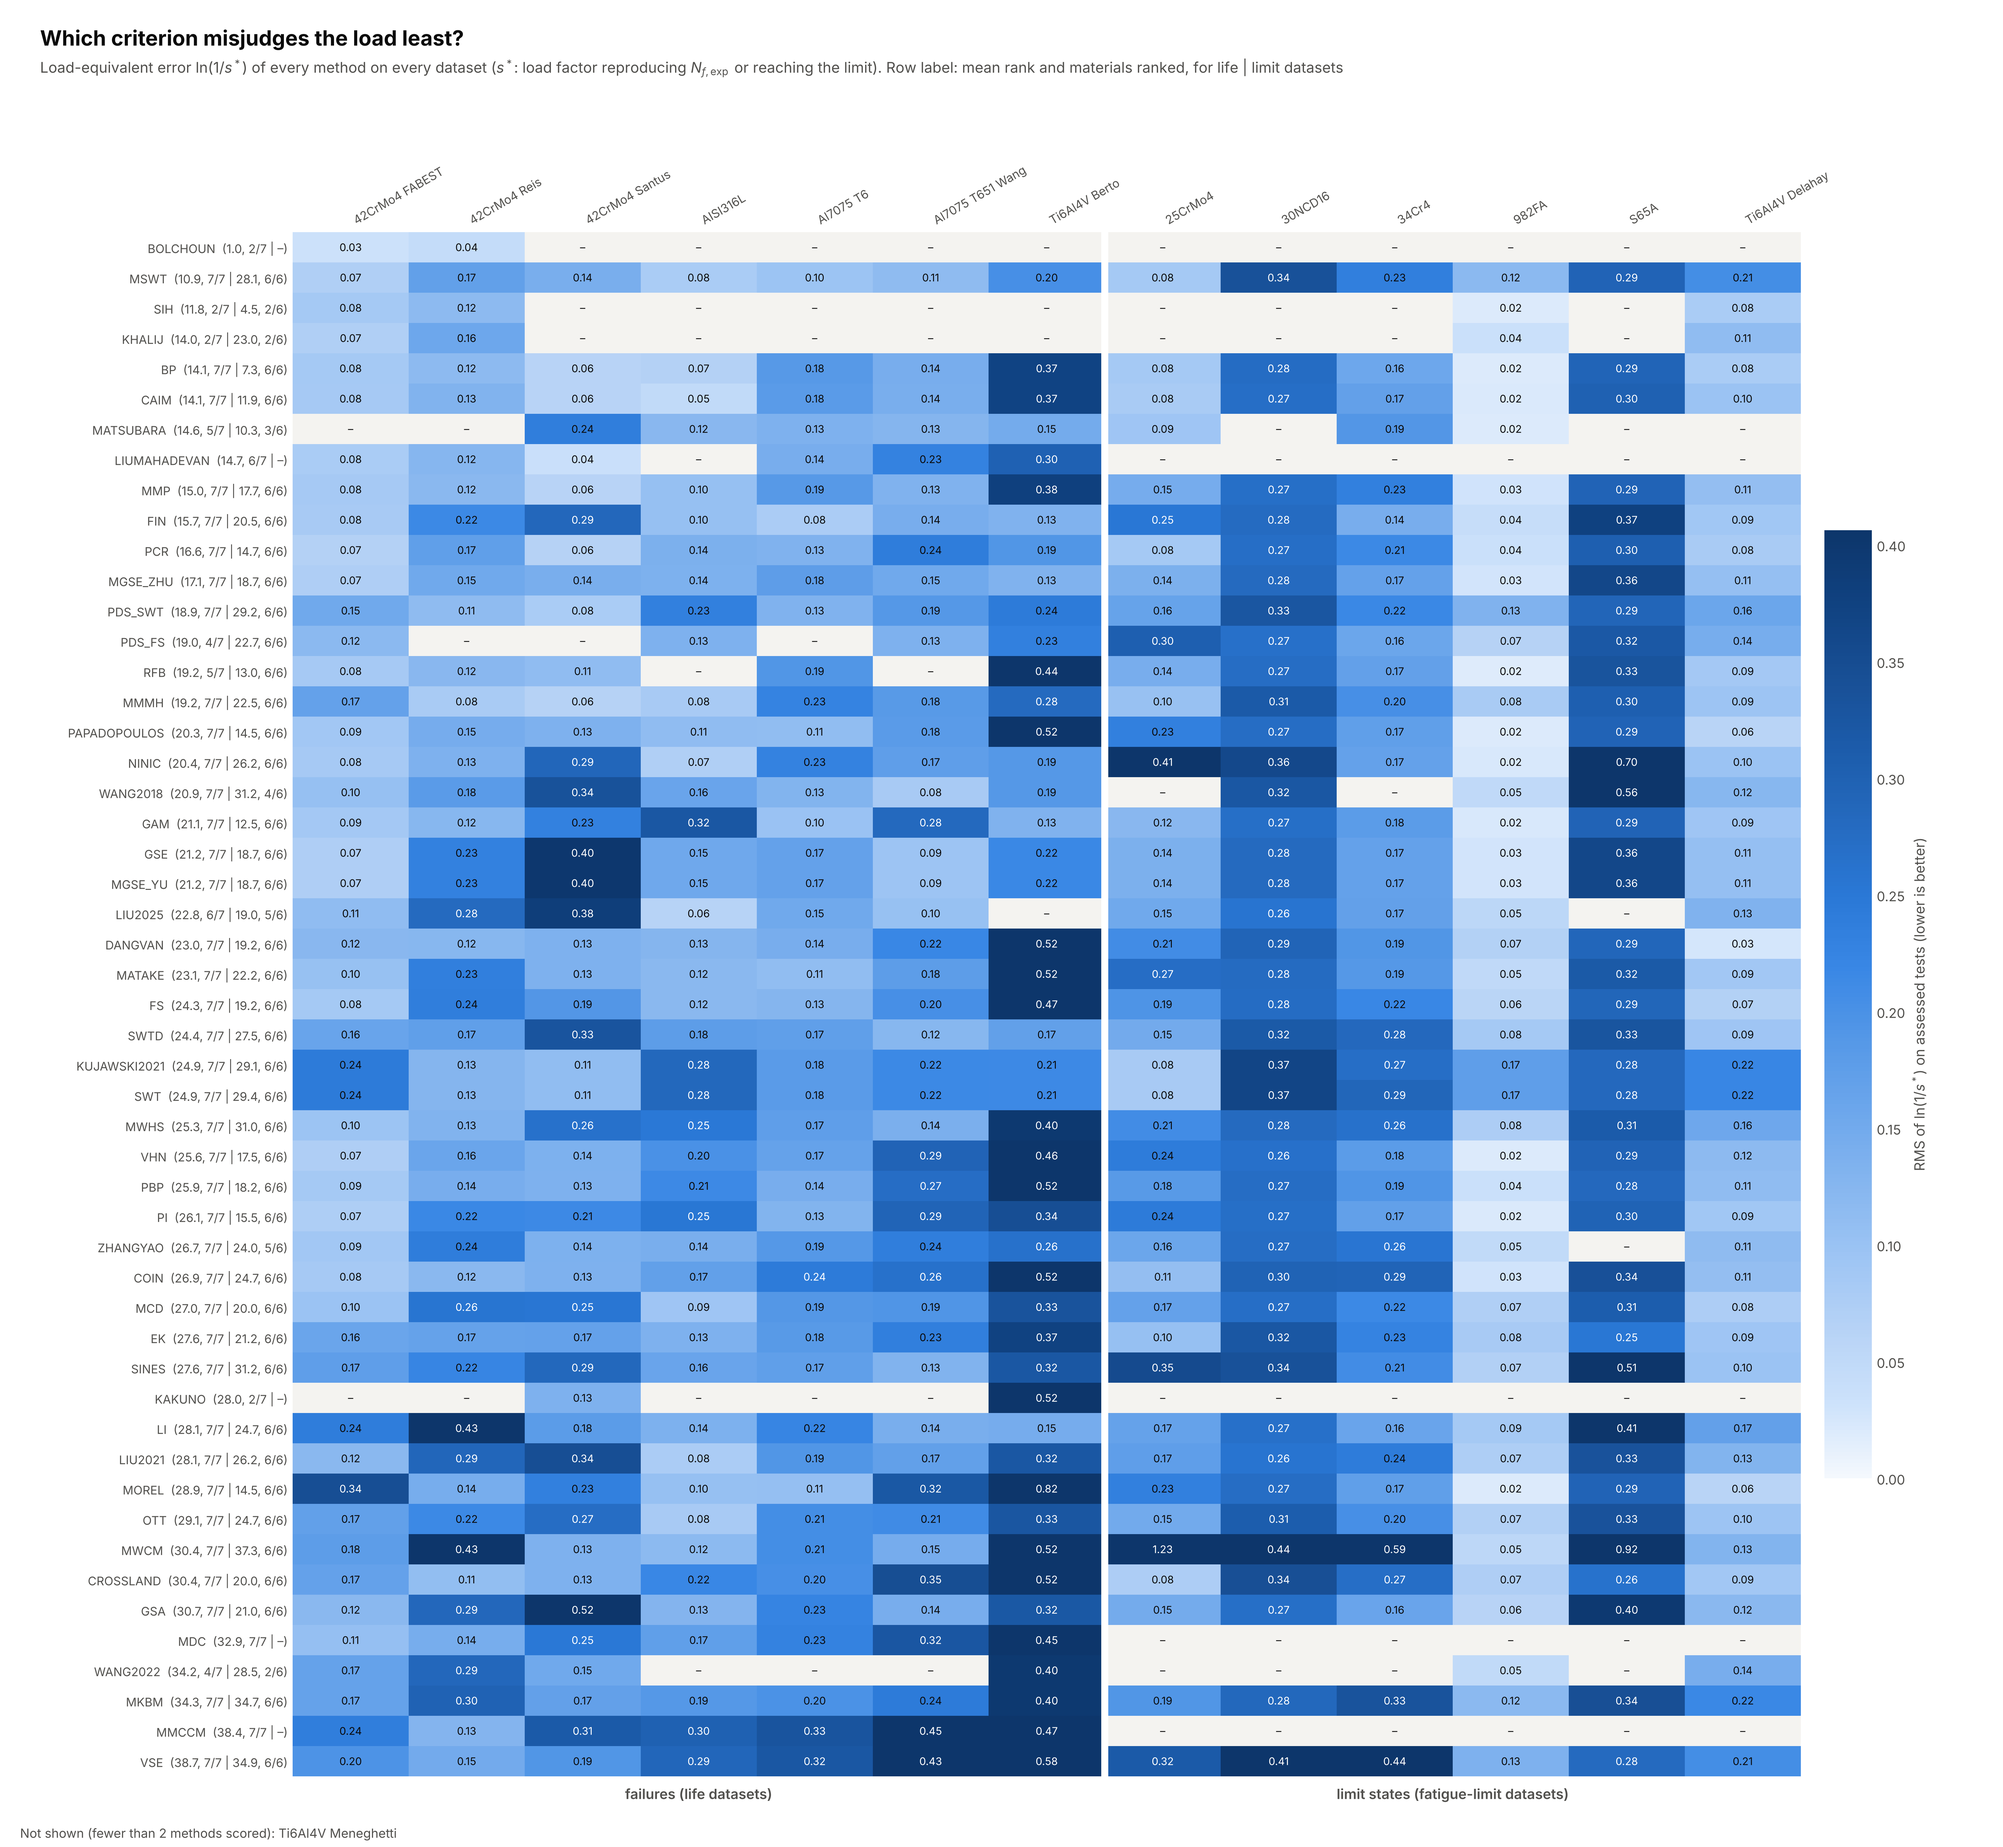
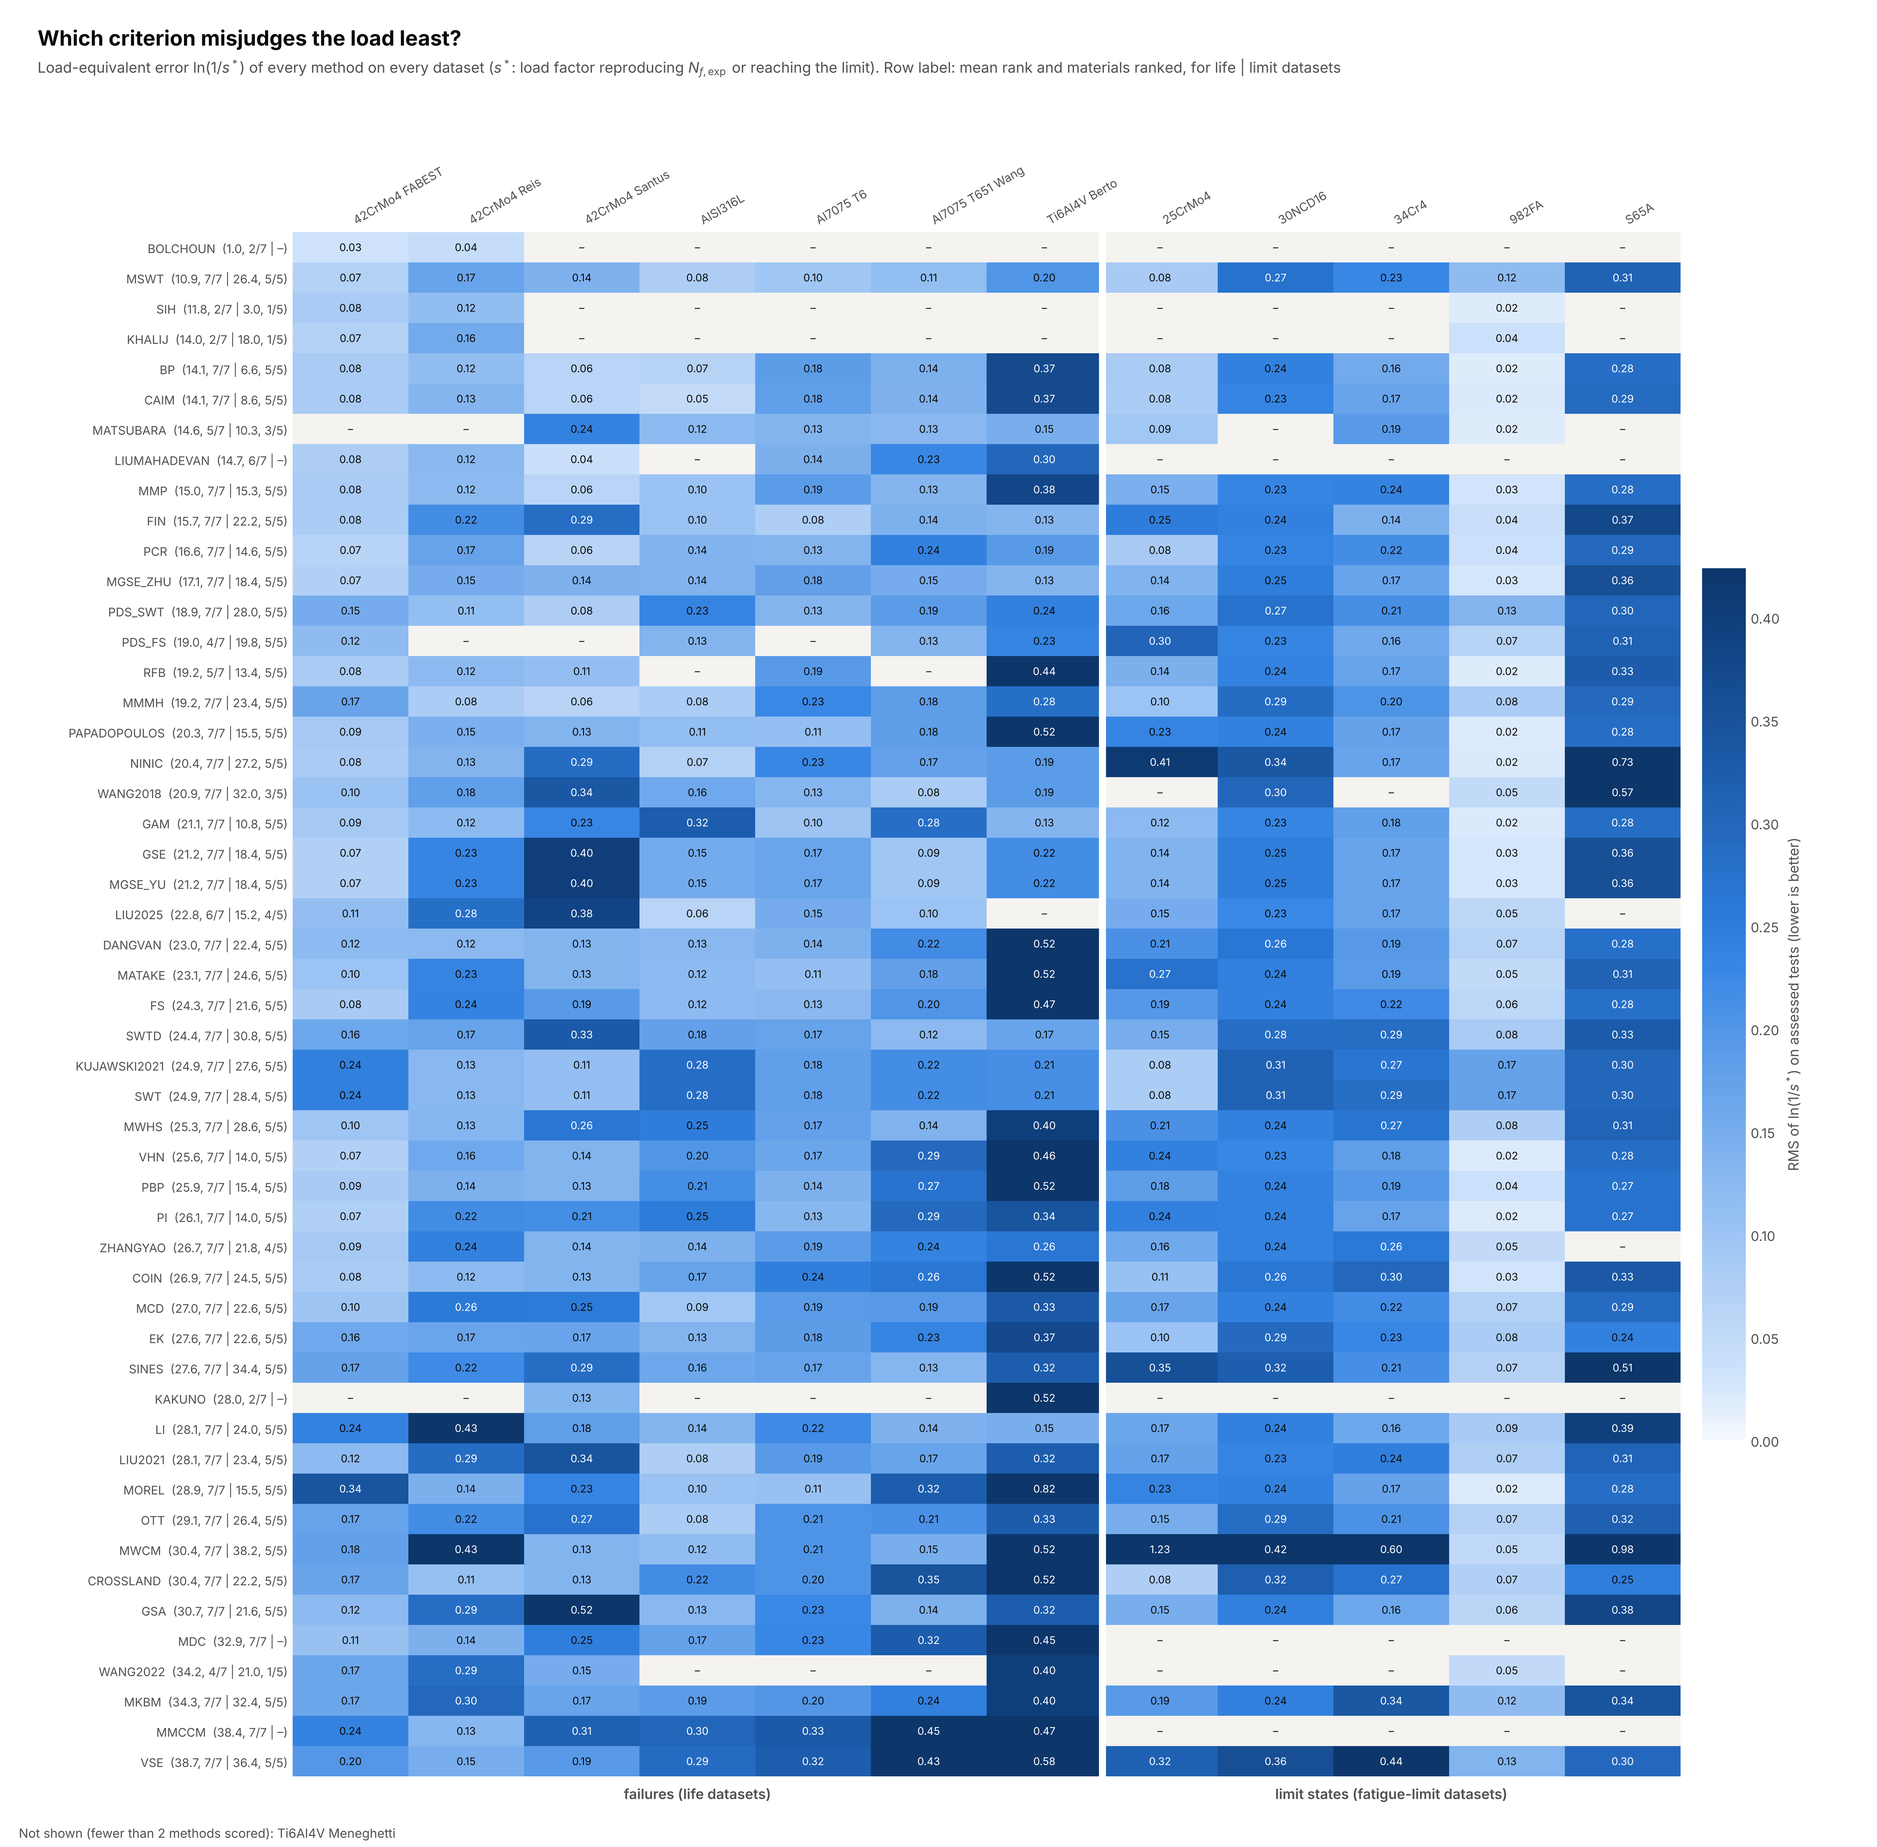
Ranking: pure torsion limits are a reference; MATSUBARA needs Su (d118)
The pure R = -1 torsion limit states are tau_-1, an input of most limit criteria, which reproduced
them with zero error; they are now left out like the pure axial ones (revises d110). The limit
rows of the homepage ranking change, Ti6Al4V_Delahay drops out; the life rows are identical.
MATSUBARA declares the static strength input (sigma_T = 1.84 Su), p_in = 1.

Claude-Session: https://claude.ai/code/session_01KzHgFiC4WA789boM7p2Bhj

diff --git a/examples/build_load_error_ranking.py b/examples/build_load_error_ranking.py
@@ -23,8 +23,9 @@ files, run in the same results folder:
 A limit state has the same load-equivalent error: FI_load = 1/s - 1 is the stress-scaled fatigue
 index (multifat.eval.endurance), so Error_load = ln(1/s) = ln(1 + FI_load), exactly and for any
 damage parameter. As the R = -1 uniaxial tension failures of a life dataset are its design set,
-the pure R = -1 axial limit states of a limit dataset are its reference and are left out; the
-torsion limits are assessed, as the torsion failures are. The column Assessment tells the two
+the pure R = -1 axial and torsion limit states of a limit dataset are its reference and are left
+out: they are sigma_-1 and tau_-1, inputs of most limit criteria, which would reproduce them
+exactly (decision d118, revising d110). The column Assessment tells the two
 kinds apart (fatigue_life, fatigue_limit), since a limit dataset rests on 3-48 limit states.
 
 Only base methods are kept (no _ext variants). Methods with fewer than 3 finite errors on a
@@ -79,13 +80,28 @@ def _row(material: str, method: str, errors: np.ndarray, assessment: str) -> dic
 
 def is_axial_reference(case: dict, tol: float = 1e-9) -> bool:
     """True for a pure uniaxial R = -1 axial limit state (no mean, axial amplitude only)."""
+    return _pure_reversed(case, (1, 1), tol)
+
+
+def is_torsion_reference(case: dict, tol: float = 1e-9) -> bool:
+    """True for a pure R = -1 torsion limit state (no mean, axial-hoop shear amplitude only)."""
+    return _pure_reversed(case, (0, 1), tol)
+
+
+def is_reference(case: dict, tol: float = 1e-9) -> bool:
+    """Reference limit state of the ranking: sigma_-1 or tau_-1 itself (d118)."""
+    return is_axial_reference(case, tol) or is_torsion_reference(case, tol)
+
+
+def _pure_reversed(case: dict, slot: tuple[int, int], tol: float) -> bool:
     h = case["harmonics"]
     amplitude = np.hypot(np.asarray(h["S_sin"], float), np.asarray(h["S_cos"], float))
     others = amplitude.copy()
-    others[1, 1] = 0.0
+    i, j = slot
+    others[i, j] = others[j, i] = 0.0
     return bool(
         float(np.abs(np.asarray(h["S_mean"], float)).max()) <= tol
-        and amplitude[1, 1] > tol
+        and amplitude[i, j] > tol
         and float(others.max()) <= tol
     )
 
@@ -108,9 +124,7 @@ def _limit_states(material: str) -> tuple[list[bool], list[str]]:
 
     data, resolved = runmod.load_material(material)
     cases = list(data[resolved]["runouts"].values())
-    return [is_axial_reference(c) for c in cases], [
-        str(c["meta"].get("specimen_id", "")) for c in cases
-    ]
+    return [is_reference(c) for c in cases], [str(c["meta"].get("specimen_id", "")) for c in cases]
 
 
 def build(results_dir: Path) -> pd.DataFrame:

diff --git a/tests/test_limit_ranking.py b/tests/test_limit_ranking.py
@@ -1,7 +1,7 @@
 """Fatigue-limit datasets in the load-error ranking (decision d110).
 
-A limit state enters with Error_load = ln(1 + FI_load); the pure R = -1 axial limit states are
-the reference and are left out, as the design failures of a life dataset are.
+A limit state enters with Error_load = ln(1 + FI_load); the pure R = -1 axial and torsion limit
+states (sigma_-1, tau_-1) are the reference and are left out (d118, revising d110).
 """
 
 import sys
@@ -33,13 +33,14 @@ def _case(mean=0.0, axial=0.0, shear=0.0, cos_shear=0.0):
     [
         (_case(axial=652.0), True),
         (_case(mean=300.0, axial=630.0), False),  # axial limit with a mean stress: assessed
-        (_case(shear=411.0), False),  # torsion: assessed, as torsion failures are
+        (_case(shear=411.0), True),  # tau_-1: an input of the limit criteria (d118)
+        (_case(mean=100.0, shear=380.0), False),  # torsion with a mean stress: assessed
         (_case(axial=442.0, shear=255.0), False),
         (_case(axial=567.0, cos_shear=328.0), False),  # 90 deg
     ],
 )
-def test_only_pure_reversed_axial_limits_are_the_reference(case, expected):
-    assert br.is_axial_reference(case) is expected
+def test_only_pure_reversed_axial_and_torsion_limits_are_the_reference(case, expected):
+    assert br.is_reference(case) is expected
 
 
 def test_limit_error_is_the_log_of_the_load_factor(tmp_path):
@@ -57,8 +58,8 @@ def test_limit_error_is_the_log_of_the_load_factor(tmp_path):
 
 def test_delahay_reference_is_the_plane_bending_limit():
     data, mat = runmod.load_material("Ti6Al4V_Delahay")
-    flags = [br.is_axial_reference(c) for c in data[mat]["runouts"].values()]
-    assert sum(flags) == 1  # plane bending 652 MPa; torsion and the two combined limits assessed
+    flags = [br.is_reference(c) for c in data[mat]["runouts"].values()]
+    assert sum(flags) == 2  # plane bending 652 MPa and torsion 411 MPa; the two combined assessed
 
 
 def test_runout_fingerprint_is_opt_in():

diff --git a/src/multifat/models/invariant_methods/matsubara.py b/src/multifat/models/invariant_methods/matsubara.py
@@ -148,6 +148,8 @@ def unified_equivalent_shear(S_mean, S_sin, S_cos, sigma_T: float) -> float:
 
 class Matsubara:
     name = "MATSUBARA"
+    # sigma_T = 1.84 Su needs the static strength unless sigma_T is supplied (complexity, d118)
+    input_classes = ("static strength",)
     optional_params = {
         "sigma_T": "true fracture strength; default 1.84 Su for 400 <= Su <= 1000 MPa (ref. [23])",
         "Su": "used only to estimate sigma_T",

diff --git a/tests/test_ranking.py b/tests/test_ranking.py
@@ -31,6 +31,7 @@ def test_model_complexity_definitions():
         "MMCCM": (3, 4),
         # Invariant
         "MMMH": (2, 2),
+        "MATSUBARA": (1, 2),  # static strength for sigma_T = 1.84 Su (d118)
         "GAM": (2, 2),
         "VHN": (3, 2),
         "TVEIT2025": (0, 4),

diff --git a/docs/decision-log.md b/docs/decision-log.md
@@ -559,7 +559,7 @@ ledgers.
 ### d110
 * **Date:** 2026-11-11
 * **Topic:** Fatigue-limit datasets in the load-error ranking (#37)
-* **Status:** Active
+* **Status:** Revised by [d118](#d118) (torsion limits are now a reference)
 * **Decision:** Maintainer: add the fatigue-limit datasets to the homepage ranking as a separate block of columns with its own mean rank; leave the cross-batch comparison (#71) unchanged; leave out CX18 and GGG60 until #24 resolves their data. A limit state enters with $e_L = \ln(1/s) = \ln(1 + FI_{load})$. The pure R = -1 axial limit states are the reference of the fatigue index and are left out, as the design failures of a life dataset; torsion and multiaxial limits are assessed. Methods need at least 3 assessed limit states on a material.
 * **Rationale:** $FI_{load} = 1/s - 1$ (`eval/endurance.py`, d063) and $e_L = \ln(1/s^*)$ (`eval/load_error.py`) are the same load factor, so the conversion is exact for any damage parameter and needs no new method. The cross-batch comparison cannot use the limit datasets: no material has two limit batches, and Ti6Al4V_Delahay shares no load path with the Ti6Al4V life batches. A limit dataset has 3 to 40 assessed states against 4 to 76 failures, so its columns are not pooled into the life mean rank. CX18 (Summary limits of 30NCD16) and GGG60 (axial amplitudes about twice the Summary limit) give RMS errors of 0.78-0.85 for every method alike, which would measure the data error, not the criteria.
 * **Implementation:** `examples/build_load_error_ranking.py` (reads `FatigueLimit/*_FI.csv`, column `Assessment` appended), `examples/plot_load_error_ranking.py` (two blocks), `examples/homepage_data.py` (limit materials; their fingerprint includes the run-outs through the new opt-in `dataset_fingerprint(block, runouts=True)`, since a limit dataset has no failures). The life rows of the CSV are unchanged.
@@ -633,6 +633,15 @@ ledgers.
 * **Rationale:** Completes the planned master-curve models in Issue #38. Palmgren captures low-cycle curvature towards static strength while retaining a high-cycle endurance limit. Bastenaire captures hyperbolic endurance behavior with exponential acceleration at high stresses, avoiding power-law slope artifacts without numerical root-finding.
 * **Effect:** Default Basquin regression is bit-for-bit unchanged. CLI tools `--sn-model {basquin,kohout_vechet,stromeyer,palmgren,bastenaire}` accept the new models.
 
-
-
+### d118
+* **Date:** 2026-11-23
+* **Topic:** Reference limit states of the ranking and the complexity count of MATSUBARA
+* **Status:** Active
+* **Decision:** Maintainer:
+  1. In the fatigue-limit block of the load-error ranking, the pure R = -1 torsion limit states are a reference, as the pure R = -1 axial ones already are, and are left out of the assessment (revises d110).
+  2. MATSUBARA declares the static strength as a characterisation input ($p_{in} = 1$).
+* **Rationale:**
+  1. $\sigma_{-1}$ and $\tau_{-1}$ are inputs of most limit criteria, which reproduce the pure torsion limit exactly. Assessing it gave those criteria an error of zero by construction and biased the ranking towards them. With three limit states, a bootstrap draw of zeros only also made $\ln(\mathrm{RMS})$ undefined. In life datasets the torsion failures stay assessed: the master curve is fitted on tension only.
+  2. Without the optional constant `sigma_T`, the criterion uses $\sigma_T = 1.84\,S_u$, so it needs $S_u$. Its empty `required_params` gave $p_{in} = 0$.
+* **Effect:** The limit-dataset rows of `examples/data/load_error_ranking.csv` change; the life rows and every model output are unchanged. The complexity table changes for MATSUBARA only.
 

diff --git a/README.md b/README.md
@@ -125,10 +125,12 @@ so this is a like-for-like comparison, not an independent validation
   tests are torsional. Ti6Al4V_Meneghetti is not shown: only MOREL, which has its own life law, is
   scored there, because its design tests (6 axial failures over 0.39 decades of life) do not
   identify a master curve ([issue #74](https://github.com/andreachiocca/multiaxial-fatigue/issues/74)).
-- **Fatigue-limit datasets** (right block, decision d110): a limit state has the same error,
-  $e_L = \ln(1 + FI_{load})$, where $FI_{load} = 1/s - 1$ is the stress-scaled fatigue index. The
-  pure R = -1 axial limits are the reference and are left out; torsion and multiaxial limits are
-  assessed. These datasets rest on 3 to 40 limit states, so the block has its own mean rank.
+- **Fatigue-limit datasets** (right block, decisions d110 and d118): a limit state has the same
+  error, $e_L = \ln(1 + FI_{load})$, where $FI_{load} = 1/s - 1$ is the stress-scaled fatigue index.
+  The pure R = -1 axial and torsion limits are $\sigma_{-1}$ and $\tau_{-1}$, inputs of the limit
+  criteria, so they are left out; multiaxial and mean-stress limits are assessed. These datasets
+  rest on 7 to 39 assessed limit states, so the block has its own mean rank. Ti6Al4V_Delahay
+  keeps only two assessed limit states and is not shown.
   CX18 and GGG60 are left out until their data errors are resolved
   ([issue #24](https://github.com/andreachiocca/multiaxial-fatigue/issues/24)).
 

diff --git a/CHANGELOG.md b/CHANGELOG.md
@@ -6,6 +6,14 @@ Finding IDs (F, U, P, N) refer to the audit ledgers kept with the carry-forward 
 
 ## [Unreleased] (carry-forward of October 2026)
 
+### Ranking: torsion limits are a reference; MATSUBARA input count (decision d118)
+
+- In the fatigue-limit block of the load-error ranking the pure R = -1 torsion limit states are a
+  reference, like the pure axial ones: they are tau_-1, an input of most limit criteria, which
+  reproduced them with zero error. The limit rows of `examples/data/load_error_ranking.csv`
+  change (Ti6Al4V_Delahay drops out, two assessed states left); the life rows are identical.
+- MATSUBARA declares the static strength (sigma_T = 1.84 Su) as input: p_in = 1.
+
 ### Method taxonomy: approach, quantity, non-proportionality (issue #61)
 
 - Every catalogue record gains `approach` (`invariant`, `critical_plane`, `integral`,
